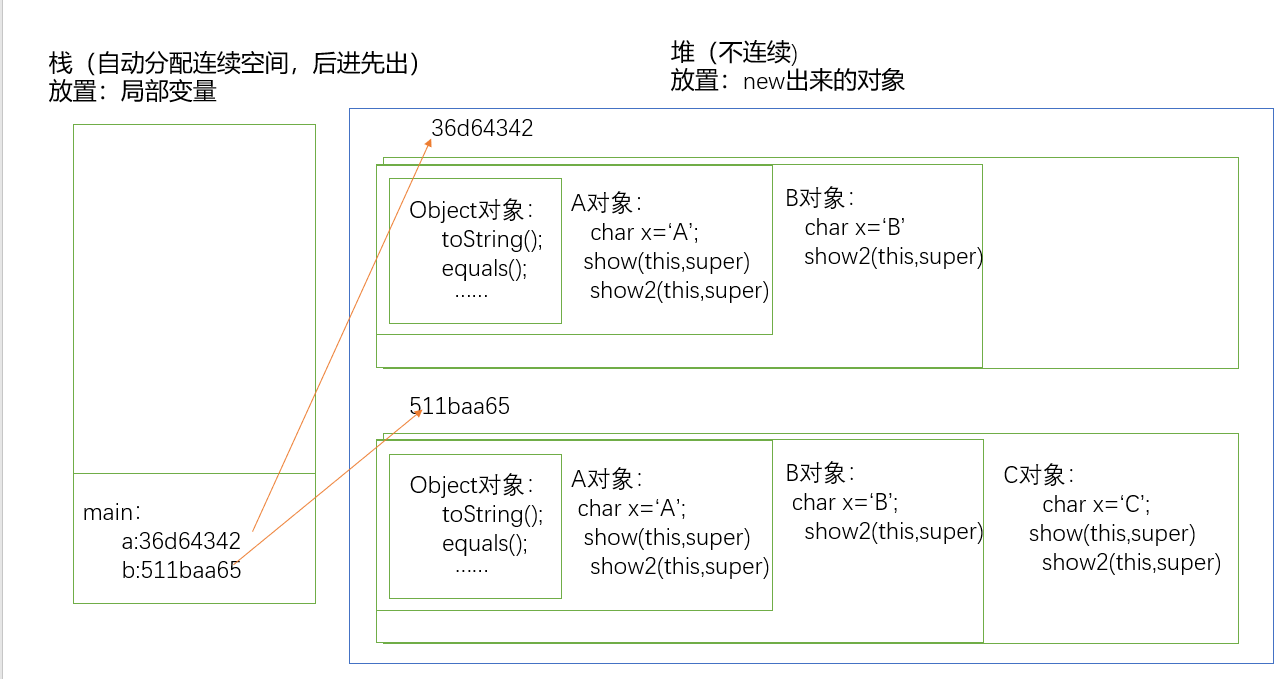
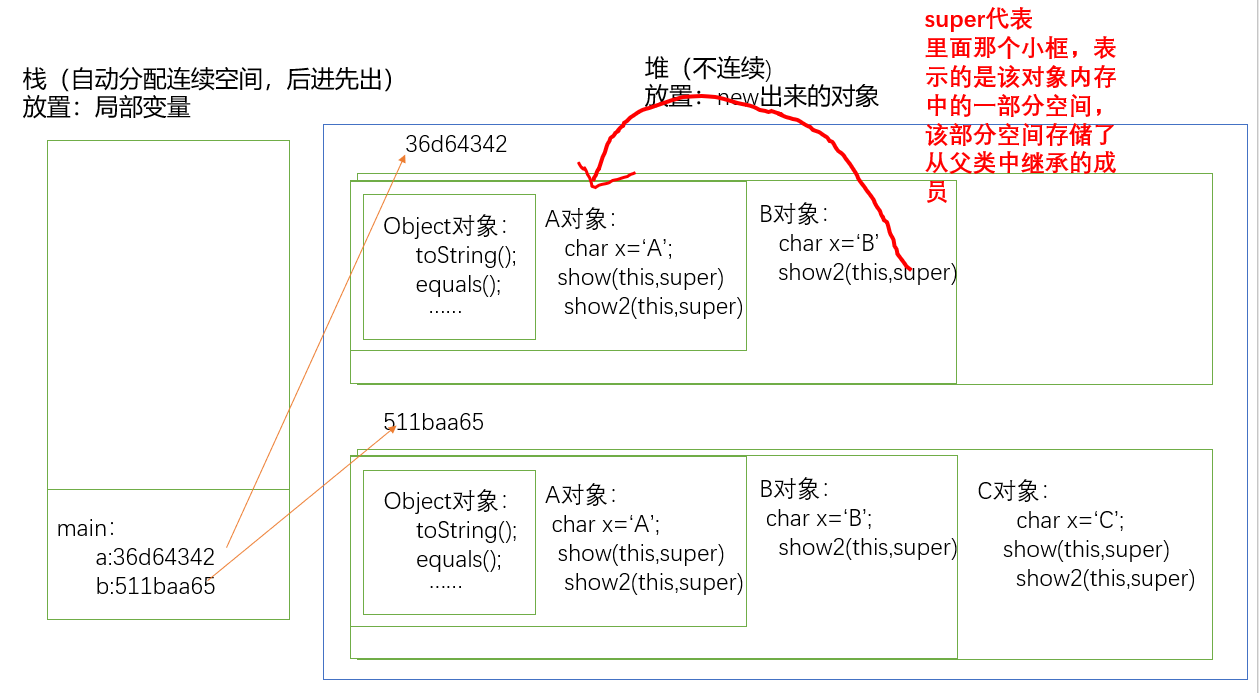
Site updated: 2019-04-04 23:29:35

Changed region(s): [[0.0, 0.0, 1.0, 1.0], [0.031, 0.6804, 0.062, 0.7113]]

diff --git a/2019/04/04/面向对象三大特性3——多态/index.html b/2019/04/04/面向对象三大特性3——多态/index.html
@@ -113,7 +113,7 @@
 <meta property="og:locale" content="zh-CN">
 <meta property="og:image" content="https://wjj711.github.io/2019/04/04/面向对象三大特性3——多态/ABC内存分析.png">
 <meta property="og:image" content="https://wjj711.github.io/2019/04/04/面向对象三大特性3——多态/servlet内存分析.png">
-<meta property="og:updated_time" content="2019-04-04T12:44:28.611Z">
+<meta property="og:updated_time" content="2019-04-04T15:01:50.432Z">
 <meta name="twitter:card" content="summary">
 <meta name="twitter:title" content="面向对象三大特性3——多态">
 <meta name="twitter:description" content="多态(polymorphism)多态指的是同一个方法调用，由于对象不同可能会有不同的行为。现实生活中，同一个方法，具体实现会完全不同。 比如：同样是调用人“吃饭”的方法，中国人执行就是用筷子吃饭，英国人执行就是用刀叉吃饭，印度人执行用手吃饭。 多态的要点： 多态是方法的多态，不是属性的多态(多态与属性无关)。 多态的存在要有3个必要条件：继承（实现），方法重写，父类引用指向子类对象。 父类引用指向">
@@ -403,7 +403,7 @@
                 
               
 
-              <time title="创建时间：2019-04-04 15:59:11 / 修改时间：20:44:28" itemprop="dateCreated datePublished" datetime="2019-04-04T15:59:11+08:00">2019-04-04</time>
+              <time title="创建时间：2019-04-04 15:59:11 / 修改时间：23:01:50" itemprop="dateCreated datePublished" datetime="2019-04-04T15:59:11+08:00">2019-04-04</time>
             
 
             
@@ -474,7 +474,7 @@
                 
                   <span class="post-meta-item-text">本文字数：</span>
                 
-                <span title="本文字数">3.2k</span>
+                <span title="本文字数">3.5k</span>
               
 
               
@@ -510,7 +510,7 @@
       
         <h1 id="多态-polymorphism"><a href="#多态-polymorphism" class="headerlink" title="多态(polymorphism)"></a><strong>多态(polymorphism)</strong></h1><p>多态指的是同一个方法调用，由于对象不同可能会有不同的行为。现实生活中，同一个方法，具体实现会完全不同。 比如：同样是调用人“吃饭”的方法，中国人执行就是用筷子吃饭，英国人执行就是用刀叉吃饭，印度人执行用手吃饭。</p>
 <h1 id="多态的要点："><a href="#多态的要点：" class="headerlink" title="多态的要点："></a>多态的要点：</h1><ol>
-<li>多态是方法的多态，不是属性的多态(多态与属性无关)。</li>
+<li><strong>多态是方法的多态，不是属性的多态(多态与属性无关)。</strong></li>
 <li>多态的存在要有3个必要条件：<strong><em>继承（实现），方法重写，父类引用指向子类对象。</em></strong></li>
 <li>父类引用指向子类对象后，用该父类引用调用子类重写的方法，此时多态就出现了。</li>
 </ol>
@@ -523,7 +523,7 @@
 <p>    有一天，又有人请孔子爹去教农耕，恰巧孔子爹不在。给的报酬很高，孔子就心动了。就打算打扮成他爹的样子去，穿上爹的衣服，带上爹的帽子，粘上小胡子就去了。<code>Father f=new Son();</code>f.name f.age 其实是爹的属性，因为别人看到的是孔子爹的属性（样貌）。别人请孔子教农耕，孔子就露馅了<code>f.teach(）</code>教的是论语。</p>
 <figure class="highlight java"><table><tr><td class="gutter"><pre><span class="line">1</span><br><span class="line">2</span><br><span class="line">3</span><br><span class="line">4</span><br><span class="line">5</span><br><span class="line">6</span><br><span class="line">7</span><br><span class="line">8</span><br><span class="line">9</span><br><span class="line">10</span><br><span class="line">11</span><br><span class="line">12</span><br><span class="line">13</span><br><span class="line">14</span><br><span class="line">15</span><br><span class="line">16</span><br><span class="line">17</span><br><span class="line">18</span><br><span class="line">19</span><br><span class="line">20</span><br><span class="line">21</span><br><span class="line">22</span><br><span class="line">23</span><br><span class="line">24</span><br><span class="line">25</span><br><span class="line">26</span><br><span class="line">27</span><br><span class="line">28</span><br><span class="line">29</span><br></pre></td><td class="code"><pre><span class="line"><span class="class"><span class="keyword">class</span> <span class="title">KongDie</span></span>&#123;</span><br><span class="line">	<span class="keyword">int</span> age=<span class="number">70</span>;</span><br><span class="line">	String name=<span class="string">"老爹"</span>;</span><br><span class="line">	<span class="function"><span class="keyword">public</span> <span class="keyword">static</span> <span class="keyword">void</span> <span class="title">sleep</span><span class="params">()</span> </span>&#123;</span><br><span class="line">		System.out.println(<span class="string">"孔爹睡觉"</span>);</span><br><span class="line">	&#125;</span><br><span class="line">	<span class="function"><span class="keyword">public</span> <span class="keyword">void</span> <span class="title">teach</span><span class="params">()</span> </span>&#123;</span><br><span class="line">		System.out.println(<span class="string">"孔爹教农耕"</span>);</span><br><span class="line">	&#125;</span><br><span class="line">&#125;</span><br><span class="line"><span class="class"><span class="keyword">class</span> <span class="title">Kong</span> <span class="keyword">extends</span> <span class="title">KongDie</span></span>&#123;</span><br><span class="line">	<span class="keyword">int</span> age=<span class="number">30</span>;</span><br><span class="line">	String name=<span class="string">"小孔"</span>;</span><br><span class="line">	<span class="function"><span class="keyword">public</span> <span class="keyword">static</span> <span class="keyword">void</span> <span class="title">sleep</span><span class="params">()</span> </span>&#123;</span><br><span class="line">		System.out.println(<span class="string">"小孔睡觉"</span>);</span><br><span class="line">	&#125;</span><br><span class="line">	<span class="function"><span class="keyword">public</span> <span class="keyword">void</span> <span class="title">teach</span><span class="params">()</span> </span>&#123;</span><br><span class="line">		System.out.println(<span class="string">"小孔教论语"</span>);</span><br><span class="line">	&#125;</span><br><span class="line">&#125;</span><br><span class="line"><span class="keyword">public</span> <span class="class"><span class="keyword">class</span> <span class="title">TestDemo</span></span>&#123;</span><br><span class="line">	<span class="function"><span class="keyword">public</span> <span class="keyword">static</span> <span class="keyword">void</span> <span class="title">main</span><span class="params">(String[] args)</span> </span>&#123;</span><br><span class="line">		KongDie f=<span class="keyword">new</span> Kong();</span><br><span class="line">		System.out.println(<span class="string">"年龄:"</span>+f.age);</span><br><span class="line">		System.out.println(<span class="string">"姓名:"</span>+f.name);</span><br><span class="line">		f.sleep();</span><br><span class="line">		f.teach();</span><br><span class="line">	&#125;</span><br><span class="line">&#125;</span><br></pre></td></tr></table></figure>
 <p>运行结果：</p>
-<figure class="highlight java"><table><tr><td class="gutter"><pre><span class="line">1</span><br><span class="line">2</span><br><span class="line">3</span><br><span class="line">4</span><br></pre></td><td class="code"><pre><span class="line">年龄:<span class="number">70</span> <span class="comment">//成员变量，运行看左边</span></span><br><span class="line">姓名:老爹<span class="comment">//成员变量，运行看左边</span></span><br><span class="line">孔爹睡觉<span class="comment">//静态方法，运行看左边</span></span><br><span class="line">小孔教论语<span class="comment">//成员方法,运行看右边</span></span><br></pre></td></tr></table></figure>
+<figure class="highlight java"><table><tr><td class="gutter"><pre><span class="line">1</span><br><span class="line">2</span><br><span class="line">3</span><br><span class="line">4</span><br></pre></td><td class="code"><pre><span class="line">年龄:<span class="number">70</span> <span class="comment">//成员变量，运行看左边</span></span><br><span class="line">姓名:老爹<span class="comment">//成员变量，运行看左边</span></span><br><span class="line">孔爹睡觉<span class="comment">//静态方法，运行看左边</span></span><br><span class="line">小孔教论语<span class="comment">//成员方法,运行看右边，多态！</span></span><br></pre></td></tr></table></figure>
 <h1 id="多态的好处"><a href="#多态的好处" class="headerlink" title="多态的好处"></a>多态的好处</h1><ol>
 <li>提高了程序的维护性（由继承保证）</li>
 <li>提高了程序的扩展性（由多态保证）</li>
@@ -539,9 +539,9 @@
 <figure class="highlight java"><table><tr><td class="gutter"><pre><span class="line">1</span><br></pre></td><td class="code"><pre><span class="line">Father father=<span class="keyword">new</span> Son();</span><br></pre></td></tr></table></figure>
 <h1 id="向下转型"><a href="#向下转型" class="headerlink" title="向下转型"></a>向下转型</h1><p>        向上转型后的父类引用变量只能调用它编译类型的方法，不能调用它运行时类型的方法。这时，我们就需要进行类型的强制转换，我们称之为向下转型!</p>
 <figure class="highlight java"><table><tr><td class="gutter"><pre><span class="line">1</span><br></pre></td><td class="code"><pre><span class="line">Son son=(Son)father;<span class="comment">//父类引用变量father实际上指向的是子类对象</span></span><br></pre></td></tr></table></figure>
-<h1 id="面试题"><a href="#面试题" class="headerlink" title="面试题"></a>面试题</h1><figure class="highlight java"><table><tr><td class="gutter"><pre><span class="line">1</span><br><span class="line">2</span><br><span class="line">3</span><br><span class="line">4</span><br><span class="line">5</span><br><span class="line">6</span><br><span class="line">7</span><br><span class="line">8</span><br><span class="line">9</span><br><span class="line">10</span><br><span class="line">11</span><br><span class="line">12</span><br><span class="line">13</span><br><span class="line">14</span><br><span class="line">15</span><br><span class="line">16</span><br><span class="line">17</span><br><span class="line">18</span><br><span class="line">19</span><br><span class="line">20</span><br><span class="line">21</span><br><span class="line">22</span><br><span class="line">23</span><br><span class="line">24</span><br><span class="line">25</span><br><span class="line">26</span><br><span class="line">27</span><br><span class="line">28</span><br><span class="line">29</span><br><span class="line">30</span><br><span class="line">31</span><br><span class="line">32</span><br><span class="line">33</span><br></pre></td><td class="code"><pre><span class="line"><span class="class"><span class="keyword">class</span> <span class="title">A</span></span>&#123;</span><br><span class="line">	<span class="function"><span class="keyword">public</span> <span class="keyword">void</span> <span class="title">show</span><span class="params">()</span></span>&#123;</span><br><span class="line">		System.out.println(<span class="string">"父类A中的this地址为："</span>+<span class="keyword">this</span>);</span><br><span class="line">		<span class="keyword">this</span>.show2();</span><br><span class="line">	&#125;</span><br><span class="line">	<span class="function"><span class="keyword">public</span> <span class="keyword">void</span> <span class="title">show2</span><span class="params">()</span></span>&#123;</span><br><span class="line">		System.out.println(<span class="string">"我"</span>);</span><br><span class="line">	&#125;</span><br><span class="line">&#125;</span><br><span class="line"><span class="class"><span class="keyword">class</span> <span class="title">B</span> <span class="keyword">extends</span> <span class="title">A</span> </span>&#123;</span><br><span class="line">	<span class="function"><span class="keyword">public</span> <span class="keyword">void</span> <span class="title">show2</span><span class="params">()</span></span>&#123;</span><br><span class="line">		System.out.println(<span class="string">"爱"</span>);</span><br><span class="line">	&#125;</span><br><span class="line">&#125;</span><br><span class="line"><span class="class"><span class="keyword">class</span> <span class="title">C</span> <span class="keyword">extends</span> <span class="title">B</span> </span>&#123;</span><br><span class="line">	<span class="function"><span class="keyword">public</span> <span class="keyword">void</span> <span class="title">show</span><span class="params">()</span></span>&#123;</span><br><span class="line">		System.out.println(<span class="string">"子类C的super的地址为："</span>+ <span class="keyword">super</span>.toString());</span><br><span class="line">		<span class="keyword">super</span>.show();</span><br><span class="line">	&#125;</span><br><span class="line">	<span class="function"><span class="keyword">public</span> <span class="keyword">void</span> <span class="title">show2</span><span class="params">()</span></span>&#123;</span><br><span class="line">		System.out.println(<span class="string">"你"</span>);</span><br><span class="line">	&#125;</span><br><span class="line">&#125;</span><br><span class="line"><span class="keyword">public</span> <span class="class"><span class="keyword">class</span> <span class="title">TestDemo</span> </span>&#123;</span><br><span class="line">	<span class="function"><span class="keyword">public</span> <span class="keyword">static</span> <span class="keyword">void</span> <span class="title">main</span><span class="params">(String[] args)</span> </span>&#123;</span><br><span class="line">		A a = <span class="keyword">new</span> B();</span><br><span class="line">		System.out.println(<span class="string">"a的地址是："</span>+a);</span><br><span class="line">		a.show();</span><br><span class="line">		B b = <span class="keyword">new</span> C();</span><br><span class="line">		System.out.println(<span class="string">"b的地址是："</span>+b);</span><br><span class="line">		b.show();</span><br><span class="line">	&#125;</span><br><span class="line">&#125;</span><br></pre></td></tr></table></figure>
+<h1 id="面试题"><a href="#面试题" class="headerlink" title="面试题"></a>面试题</h1><figure class="highlight java"><table><tr><td class="gutter"><pre><span class="line">1</span><br><span class="line">2</span><br><span class="line">3</span><br><span class="line">4</span><br><span class="line">5</span><br><span class="line">6</span><br><span class="line">7</span><br><span class="line">8</span><br><span class="line">9</span><br><span class="line">10</span><br><span class="line">11</span><br><span class="line">12</span><br><span class="line">13</span><br><span class="line">14</span><br><span class="line">15</span><br><span class="line">16</span><br><span class="line">17</span><br><span class="line">18</span><br><span class="line">19</span><br><span class="line">20</span><br><span class="line">21</span><br><span class="line">22</span><br><span class="line">23</span><br><span class="line">24</span><br><span class="line">25</span><br><span class="line">26</span><br><span class="line">27</span><br><span class="line">28</span><br><span class="line">29</span><br><span class="line">30</span><br><span class="line">31</span><br><span class="line">32</span><br><span class="line">33</span><br><span class="line">34</span><br><span class="line">35</span><br><span class="line">36</span><br><span class="line">37</span><br><span class="line">38</span><br><span class="line">39</span><br></pre></td><td class="code"><pre><span class="line"><span class="class"><span class="keyword">class</span> <span class="title">A</span></span>&#123;</span><br><span class="line">	<span class="keyword">char</span> x=<span class="string">'A'</span>;</span><br><span class="line">	<span class="function"><span class="keyword">public</span> <span class="keyword">void</span> <span class="title">show</span><span class="params">()</span></span>&#123;</span><br><span class="line">		System.out.println(<span class="string">"父类A中的this地址为："</span>+<span class="keyword">this</span>);</span><br><span class="line">		<span class="keyword">this</span>.show2();</span><br><span class="line">	&#125;</span><br><span class="line">	<span class="function"><span class="keyword">public</span> <span class="keyword">void</span> <span class="title">show2</span><span class="params">()</span></span>&#123;</span><br><span class="line">		System.out.println(<span class="string">"我"</span>);</span><br><span class="line">	&#125;</span><br><span class="line">&#125;</span><br><span class="line"><span class="class"><span class="keyword">class</span> <span class="title">B</span> <span class="keyword">extends</span> <span class="title">A</span> </span>&#123;</span><br><span class="line">	<span class="keyword">char</span> x=<span class="string">'B'</span>;</span><br><span class="line">	<span class="function"><span class="keyword">public</span> <span class="keyword">void</span> <span class="title">show2</span><span class="params">()</span></span>&#123;</span><br><span class="line">		System.out.println(<span class="string">"爱"</span>);</span><br><span class="line">	&#125;</span><br><span class="line">&#125;</span><br><span class="line"><span class="class"><span class="keyword">class</span> <span class="title">C</span> <span class="keyword">extends</span> <span class="title">B</span> </span>&#123;</span><br><span class="line">	<span class="keyword">char</span> x=<span class="string">'C'</span>;</span><br><span class="line">	<span class="function"><span class="keyword">public</span> <span class="keyword">void</span> <span class="title">show</span><span class="params">()</span></span>&#123;</span><br><span class="line">		System.out.println(<span class="string">"子类C的super的地址为："</span>+ <span class="keyword">super</span>.toString());</span><br><span class="line">		<span class="keyword">super</span>.show();</span><br><span class="line">	&#125;</span><br><span class="line">	<span class="function"><span class="keyword">public</span> <span class="keyword">void</span> <span class="title">show2</span><span class="params">()</span></span>&#123;</span><br><span class="line">		System.out.println(<span class="string">"你"</span>);</span><br><span class="line">	&#125;</span><br><span class="line">&#125;</span><br><span class="line"><span class="keyword">public</span> <span class="class"><span class="keyword">class</span> <span class="title">TestDemo</span> </span>&#123;</span><br><span class="line">	<span class="function"><span class="keyword">public</span> <span class="keyword">static</span> <span class="keyword">void</span> <span class="title">main</span><span class="params">(String[] args)</span> </span>&#123;</span><br><span class="line">		A a = <span class="keyword">new</span> B();</span><br><span class="line">		System.out.println(<span class="string">"a的地址是："</span>+a);</span><br><span class="line">		System.out.println(<span class="string">"a.x= "</span>+a.x);</span><br><span class="line">		a.show();</span><br><span class="line">		System.out.println(<span class="string">"------------------------"</span>);</span><br><span class="line">		B b = <span class="keyword">new</span> C();</span><br><span class="line">		System.out.println(<span class="string">"b的地址是："</span>+b);</span><br><span class="line">		System.out.println(<span class="string">"b.x= "</span>+b.x);</span><br><span class="line">		b.show();</span><br><span class="line">	&#125;</span><br><span class="line">&#125;</span><br></pre></td></tr></table></figure>
 <p>输出结果：</p>
-<figure class="highlight java"><table><tr><td class="gutter"><pre><span class="line">1</span><br><span class="line">2</span><br><span class="line">3</span><br><span class="line">4</span><br><span class="line">5</span><br><span class="line">6</span><br><span class="line">7</span><br></pre></td><td class="code"><pre><span class="line">a的地址是：classlib.B@<span class="number">36</span>d64342</span><br><span class="line">父类A中的<span class="keyword">this</span>地址为：classlib.B@<span class="number">36</span>d64342</span><br><span class="line">爱</span><br><span class="line">b的地址是：classlib.C@<span class="number">511</span>baa65</span><br><span class="line">子类C的<span class="keyword">super</span>的地址为：classlib.C@<span class="number">511</span>baa65</span><br><span class="line">父类A中的<span class="keyword">this</span>地址为：classlib.C@<span class="number">511</span>baa65</span><br><span class="line">你</span><br></pre></td></tr></table></figure>
+<figure class="highlight java"><table><tr><td class="gutter"><pre><span class="line">1</span><br><span class="line">2</span><br><span class="line">3</span><br><span class="line">4</span><br><span class="line">5</span><br><span class="line">6</span><br><span class="line">7</span><br><span class="line">8</span><br><span class="line">9</span><br><span class="line">10</span><br></pre></td><td class="code"><pre><span class="line">a的地址是：classlib.B@<span class="number">36</span>d64342</span><br><span class="line">a.x= A<span class="comment">//成员变量没有多态，编译运行都看左边</span></span><br><span class="line">父类A中的<span class="keyword">this</span>地址为：classlib.B@<span class="number">36</span>d64342</span><br><span class="line">爱</span><br><span class="line">------------------------</span><br><span class="line">b的地址是：classlib.C@<span class="number">511</span>baa65</span><br><span class="line">b.x= B<span class="comment">//成员变量没有多态，编译运行都看左边</span></span><br><span class="line">子类C的<span class="keyword">super</span>的地址为：classlib.C@<span class="number">511</span>baa65<span class="comment">//super表示的是该对象内存中的一部分地址，该部分存储了从父类中继承的成员</span></span><br><span class="line">父类A中的<span class="keyword">this</span>地址为：classlib.C@<span class="number">511</span>baa65</span><br><span class="line">你</span><br></pre></td></tr></table></figure>
 <h2 id="多态的内存分析"><a href="#多态的内存分析" class="headerlink" title="多态的内存分析"></a>多态的内存分析</h2><img src="/2019/04/04/面向对象三大特性3——多态/ABC内存分析.png">
 <h1 id="模拟Servlet并内存分析"><a href="#模拟Servlet并内存分析" class="headerlink" title="模拟Servlet并内存分析"></a>模拟Servlet并内存分析</h1><figure class="highlight java"><table><tr><td class="gutter"><pre><span class="line">1</span><br><span class="line">2</span><br><span class="line">3</span><br><span class="line">4</span><br><span class="line">5</span><br><span class="line">6</span><br><span class="line">7</span><br><span class="line">8</span><br><span class="line">9</span><br><span class="line">10</span><br><span class="line">11</span><br><span class="line">12</span><br><span class="line">13</span><br><span class="line">14</span><br><span class="line">15</span><br><span class="line">16</span><br><span class="line">17</span><br><span class="line">18</span><br><span class="line">19</span><br><span class="line">20</span><br><span class="line">21</span><br><span class="line">22</span><br><span class="line">23</span><br></pre></td><td class="code"><pre><span class="line"><span class="keyword">public</span> <span class="class"><span class="keyword">class</span> <span class="title">TestDemo</span></span>&#123;</span><br><span class="line">	<span class="function"><span class="keyword">public</span> <span class="keyword">static</span> <span class="keyword">void</span> <span class="title">main</span><span class="params">(String[] args)</span> </span>&#123;</span><br><span class="line">		HttpServlet s=<span class="keyword">new</span> MyServlet();</span><br><span class="line">		s.service();</span><br><span class="line">		System.out.println(<span class="string">"对象s的内存地址"</span>+s);</span><br><span class="line">	&#125;</span><br><span class="line">&#125;</span><br><span class="line"><span class="class"><span class="keyword">class</span> <span class="title">HttpServlet</span></span>&#123;</span><br><span class="line">	<span class="function"><span class="keyword">public</span> <span class="keyword">void</span> <span class="title">service</span><span class="params">()</span> </span>&#123;</span><br><span class="line">		System.out.println(<span class="string">"HttpServlet.service()"</span>);</span><br><span class="line">		System.out.println(<span class="string">"调用doGet()时的内存地址"</span>+<span class="keyword">this</span>);</span><br><span class="line">		<span class="keyword">this</span>.doGet();</span><br><span class="line">	&#125;</span><br><span class="line">	<span class="function"><span class="keyword">public</span> <span class="keyword">void</span> <span class="title">doGet</span><span class="params">()</span> </span>&#123;</span><br><span class="line">		System.out.println(<span class="string">"HttpServlet.doGet()"</span>);</span><br><span class="line">	&#125;</span><br><span class="line">&#125;</span><br><span class="line"><span class="class"><span class="keyword">class</span> <span class="title">MyServlet</span> <span class="keyword">extends</span> <span class="title">HttpServlet</span> </span>&#123;</span><br><span class="line">	<span class="comment">//重写doGet()方法，不重写service()方法</span></span><br><span class="line">	<span class="function"><span class="keyword">public</span> <span class="keyword">void</span> <span class="title">doGet</span><span class="params">()</span> </span>&#123;</span><br><span class="line">		System.out.println(<span class="string">"MyServlet.doGet()"</span>);</span><br><span class="line">	&#125;</span><br><span class="line">&#125;</span><br></pre></td></tr></table></figure>
 <figure class="highlight java"><table><tr><td class="gutter"><pre><span class="line">1</span><br><span class="line">2</span><br><span class="line">3</span><br><span class="line">4</span><br></pre></td><td class="code"><pre><span class="line">HttpServlet.service()</span><br><span class="line">调用doGet()时的内存地址classlib.MyServlet@<span class="number">36</span>d64342</span><br><span class="line">MyServlet.doGet()</span><br><span class="line">对象s的内存地址classlib.MyServlet@<span class="number">36</span>d64342</span><br></pre></td></tr></table></figure>
@@ -853,7 +853,7 @@
       <i class="fa fa-area-chart"></i>
     </span>
     
-    <span title="站点总字数">32k</span>
+    <span title="站点总字数">33k</span>
   
 
   
@@ -862,7 +862,7 @@
       <i class="fa fa-coffee"></i>
     </span>
     
-    <span title="站点阅读时长">29 分钟</span>
+    <span title="站点阅读时长">30 分钟</span>
   
 </div>
 

diff --git a/2019/04/04/super关键字/index.html b/2019/04/04/super关键字/index.html
@@ -103,18 +103,20 @@
 
 
 
-  <meta name="description" content="this:     a：代表当前对象（哪个对象调用这个方法，它就代表哪个对象） b：代表该对象的一个空间标识（可以调用在本类中定义的成员） super：      a: 代表该对象的空间标识，里面存的是父类继承的成员（可以调用在父类中定义的成员） 静态方法中不能使用super关键字 123456789101112131415161718public class TestDemo&amp;#123;	p">
+  <meta name="description" content="this:        a. 代表当前对象（哪个对象调用这个方法，它就代表哪个对象）        b.代表该对象的一个空间标识（可以调用在本类中定义的成员） super：      a: super表示的是该对象内存中的一部分空间，该部分空间存储了从父类中继承的成员，（可以调用在父类中定义的成员） 如图所示，super代表的是里面那个小框，表示的是该对象内存中的一部分空间，该部分空间存储了从">
 <meta name="keywords" content="Java,JavaSE">
 <meta property="og:type" content="article">
 <meta property="og:title" content="super关键字&amp;&amp;继承树">
 <meta property="og:url" content="https://WJJ711.github.io/2019/04/04/super关键字/index.html">
 <meta property="og:site_name" content="wjjのhomepage">
-<meta property="og:description" content="this:     a：代表当前对象（哪个对象调用这个方法，它就代表哪个对象） b：代表该对象的一个空间标识（可以调用在本类中定义的成员） super：      a: 代表该对象的空间标识，里面存的是父类继承的成员（可以调用在父类中定义的成员） 静态方法中不能使用super关键字 123456789101112131415161718public class TestDemo&amp;#123;	p">
+<meta property="og:description" content="this:        a. 代表当前对象（哪个对象调用这个方法，它就代表哪个对象）        b.代表该对象的一个空间标识（可以调用在本类中定义的成员） super：      a: super表示的是该对象内存中的一部分空间，该部分空间存储了从父类中继承的成员，（可以调用在父类中定义的成员） 如图所示，super代表的是里面那个小框，表示的是该对象内存中的一部分空间，该部分空间存储了从">
 <meta property="og:locale" content="zh-CN">
-<meta property="og:updated_time" content="2019-04-04T13:50:54.891Z">
+<meta property="og:image" content="https://wjj711.github.io/2019/04/04/super关键字/super代表的内存空间标识.png">
+<meta property="og:updated_time" content="2019-04-04T15:01:49.184Z">
 <meta name="twitter:card" content="summary">
 <meta name="twitter:title" content="super关键字&amp;&amp;继承树">
-<meta name="twitter:description" content="this:     a：代表当前对象（哪个对象调用这个方法，它就代表哪个对象） b：代表该对象的一个空间标识（可以调用在本类中定义的成员） super：      a: 代表该对象的空间标识，里面存的是父类继承的成员（可以调用在父类中定义的成员） 静态方法中不能使用super关键字 123456789101112131415161718public class TestDemo&amp;#123;	p">
+<meta name="twitter:description" content="this:        a. 代表当前对象（哪个对象调用这个方法，它就代表哪个对象）        b.代表该对象的一个空间标识（可以调用在本类中定义的成员） super：      a: super表示的是该对象内存中的一部分空间，该部分空间存储了从父类中继承的成员，（可以调用在父类中定义的成员） 如图所示，super代表的是里面那个小框，表示的是该对象内存中的一部分空间，该部分空间存储了从">
+<meta name="twitter:image" content="https://wjj711.github.io/2019/04/04/super关键字/super代表的内存空间标识.png">
 
 
 
@@ -400,7 +402,7 @@
                 
               
 
-              <time title="创建时间：2019-04-04 10:22:21 / 修改时间：21:50:54" itemprop="dateCreated datePublished" datetime="2019-04-04T10:22:21+08:00">2019-04-04</time>
+              <time title="创建时间：2019-04-04 10:22:21 / 修改时间：23:01:49" itemprop="dateCreated datePublished" datetime="2019-04-04T10:22:21+08:00">2019-04-04</time>
             
 
             
@@ -505,17 +507,17 @@
       
 
       
-        <p>this:</p>
-<p>    a：代表当前对象（哪个对象调用这个方法，它就代表哪个对象）</p>
-<pre><code>b：代表该对象的一个空间标识（可以调用在本类中定义的成员）
-</code></pre><p>super： </p>
-<p>    a: 代表该对象的空间标识，里面存的是父类继承的成员（可以调用在父类中定义的成员）</p>
+        <p>this:<br>        a. 代表当前对象（哪个对象调用这个方法，它就代表哪个对象）<br>        b.代表该对象的一个空间标识（可以调用在本类中定义的成员）</p>
+<p>super： </p>
+<p>    a: super表示的是该对象内存中的一部分空间，该部分空间存储了从父类中继承的成员，（可以调用在父类中定义的成员）</p>
+<p>如图所示，super代表的是里面那个小框，表示的是该对象内存中的一部分空间，该部分空间存储了从父类中继承的成员</p>
+<img src="/2019/04/04/super关键字/super代表的内存空间标识.png">
 <p><strong><em>静态方法中不能使用super关键字</em></strong></p>
 <figure class="highlight java"><table><tr><td class="gutter"><pre><span class="line">1</span><br><span class="line">2</span><br><span class="line">3</span><br><span class="line">4</span><br><span class="line">5</span><br><span class="line">6</span><br><span class="line">7</span><br><span class="line">8</span><br><span class="line">9</span><br><span class="line">10</span><br><span class="line">11</span><br><span class="line">12</span><br><span class="line">13</span><br><span class="line">14</span><br><span class="line">15</span><br><span class="line">16</span><br><span class="line">17</span><br><span class="line">18</span><br></pre></td><td class="code"><pre><span class="line"><span class="keyword">public</span> <span class="class"><span class="keyword">class</span> <span class="title">TestDemo</span></span>&#123;</span><br><span class="line">	<span class="function"><span class="keyword">public</span> <span class="keyword">static</span> <span class="keyword">void</span> <span class="title">main</span><span class="params">(String[] args)</span> </span>&#123;</span><br><span class="line">		Son1 son=<span class="keyword">new</span> Son1();</span><br><span class="line">		son.method(<span class="number">0</span>);</span><br><span class="line">	&#125;</span><br><span class="line">&#125;</span><br><span class="line"><span class="class"><span class="keyword">class</span> <span class="title">Father1</span></span>&#123;</span><br><span class="line">	<span class="keyword">int</span> n=<span class="number">1024</span>;</span><br><span class="line">&#125;</span><br><span class="line"><span class="class"><span class="keyword">class</span> <span class="title">Son1</span> <span class="keyword">extends</span> <span class="title">Father1</span></span>&#123;</span><br><span class="line">	<span class="keyword">int</span> n=<span class="number">2048</span>;</span><br><span class="line">	<span class="function"><span class="keyword">public</span> <span class="keyword">void</span> <span class="title">method</span><span class="params">(<span class="keyword">int</span> n)</span> </span>&#123;</span><br><span class="line">		System.out.println(<span class="string">"n="</span>+n);</span><br><span class="line">		System.out.println(<span class="string">"this.n="</span>+<span class="keyword">this</span>.n);</span><br><span class="line">		System.out.println(<span class="string">"super.n="</span>+<span class="keyword">super</span>.n);						System.out.println(<span class="string">"子类对象:"</span>+<span class="keyword">this</span>);</span><br><span class="line">		<span class="comment">//System.out.println(super);编译错误</span></span><br><span class="line">	&#125;</span><br><span class="line">&#125;</span><br></pre></td></tr></table></figure>
 <p>输出结果：</p>
 <figure class="highlight java"><table><tr><td class="gutter"><pre><span class="line">1</span><br><span class="line">2</span><br><span class="line">3</span><br><span class="line">4</span><br></pre></td><td class="code"><pre><span class="line">n=<span class="number">0</span><span class="comment">//方法中的局部变量</span></span><br><span class="line"><span class="keyword">this</span>.n=<span class="number">2048</span><span class="comment">//this代表子类，子类中的成员变量</span></span><br><span class="line"><span class="keyword">super</span>.n=<span class="number">1024</span><span class="comment">//上面代码中父类对象没有创建，只new了一个子类对象，所以super代表该对象的空间标识，里面存的是父类继承的成员</span></span><br><span class="line">子类对象:classlib.Son1@<span class="number">36</span>d64342<span class="comment">//相当于this.toString()</span></span><br></pre></td></tr></table></figure>
 <h1 id="总结"><a href="#总结" class="headerlink" title="总结"></a>总结</h1><ol>
-<li><p>super是直接父类对象的引用。可以通过super来访问父类中被子类覆盖的非static方法或非static属性。</p>
+<li><p>super是直接对父类对象的引用。可以通过super来访问父类中被子类覆盖的非static方法或非static属性。</p>
 </li>
 <li><p>使用super调用普通方法，语句没有位置限制，可以在子类中随便调用。</p>
 </li>
@@ -891,7 +893,7 @@
       <i class="fa fa-area-chart"></i>
     </span>
     
-    <span title="站点总字数">32k</span>
+    <span title="站点总字数">33k</span>
   
 
   
@@ -900,7 +902,7 @@
       <i class="fa fa-coffee"></i>
     </span>
     
-    <span title="站点阅读时长">29 分钟</span>
+    <span title="站点阅读时长">30 分钟</span>
   
 </div>
 

diff --git a/index.html b/index.html
@@ -401,7 +401,7 @@
                 
               
 
-              <time title="创建时间：2019-04-04 15:59:11 / 修改时间：20:44:28" itemprop="dateCreated datePublished" datetime="2019-04-04T15:59:11+08:00">2019-04-04</time>
+              <time title="创建时间：2019-04-04 15:59:11 / 修改时间：23:01:50" itemprop="dateCreated datePublished" datetime="2019-04-04T15:59:11+08:00">2019-04-04</time>
             
 
             
@@ -465,7 +465,7 @@
                 
                   <span class="post-meta-item-text">本文字数：</span>
                 
-                <span title="本文字数">3.2k</span>
+                <span title="本文字数">3.5k</span>
               
 
               
@@ -826,7 +826,7 @@ fina
                 
               
 
-              <time title="创建时间：2019-04-04 10:22:21 / 修改时间：21:50:54" itemprop="dateCreated datePublished" datetime="2019-04-04T10:22:21+08:00">2019-04-04</time>
+              <time title="创建时间：2019-04-04 10:22:21 / 修改时间：23:01:49" itemprop="dateCreated datePublished" datetime="2019-04-04T10:22:21+08:00">2019-04-04</time>
             
 
             
@@ -927,9 +927,7 @@ fina
         
           
             <p>
-              this:
-    a：代表当前对象（哪个对象调用这个方法，它就代表哪个对象）
-b：代表该对象的一
+              this:        a. 代表当前对象（哪个对象调用这个方法，它就代表哪个对象）       
               ...
             </p>
           <!--noindex-->
@@ -2661,7 +2659,7 @@ static修饰的成员变量和方法，从属于类。
       <i class="fa fa-area-chart"></i>
     </span>
     
-    <span title="站点总字数">32k</span>
+    <span title="站点总字数">33k</span>
   
 
   
@@ -2670,7 +2668,7 @@ static修饰的成员变量和方法，从属于类。
       <i class="fa fa-coffee"></i>
     </span>
     
-    <span title="站点阅读时长">29 分钟</span>
+    <span title="站点阅读时长">30 分钟</span>
   
 </div>
 

diff --git a/page/2/index.html b/page/2/index.html
@@ -2288,7 +2288,7 @@
       <i class="fa fa-area-chart"></i>
     </span>
     
-    <span title="站点总字数">32k</span>
+    <span title="站点总字数">33k</span>
   
 
   
@@ -2297,7 +2297,7 @@
       <i class="fa fa-coffee"></i>
     </span>
     
-    <span title="站点阅读时长">29 分钟</span>
+    <span title="站点阅读时长">30 分钟</span>
   
 </div>
 

diff --git a/2019/03/22/使用hexo写博客攻略/index.html b/2019/03/22/使用hexo写博客攻略/index.html
@@ -885,7 +885,7 @@
       <i class="fa fa-area-chart"></i>
     </span>
     
-    <span title="站点总字数">32k</span>
+    <span title="站点总字数">33k</span>
   
 
   
@@ -894,7 +894,7 @@
       <i class="fa fa-coffee"></i>
     </span>
     
-    <span title="站点阅读时长">29 分钟</span>
+    <span title="站点阅读时长">30 分钟</span>
   
 </div>
 

diff --git a/2019/03/23/使用Typora快速编辑Markdown/index.html b/2019/03/23/使用Typora快速编辑Markdown/index.html
@@ -876,7 +876,7 @@
       <i class="fa fa-area-chart"></i>
     </span>
     
-    <span title="站点总字数">32k</span>
+    <span title="站点总字数">33k</span>
   
 
   
@@ -885,7 +885,7 @@
       <i class="fa fa-coffee"></i>
     </span>
     
-    <span title="站点阅读时长">29 分钟</span>
+    <span title="站点阅读时长">30 分钟</span>
   
 </div>
 

diff --git a/2019/03/26/Java变量的分类与自动类型转换/index.html b/2019/03/26/Java变量的分类与自动类型转换/index.html
@@ -913,7 +913,7 @@
       <i class="fa fa-area-chart"></i>
     </span>
     
-    <span title="站点总字数">32k</span>
+    <span title="站点总字数">33k</span>
   
 
   
@@ -922,7 +922,7 @@
       <i class="fa fa-coffee"></i>
     </span>
     
-    <span title="站点阅读时长">29 分钟</span>
+    <span title="站点阅读时长">30 分钟</span>
   
 </div>
 

diff --git a/2019/03/26/Java命名规范/index.html b/2019/03/26/Java命名规范/index.html
@@ -827,7 +827,7 @@
       <i class="fa fa-area-chart"></i>
     </span>
     
-    <span title="站点总字数">32k</span>
+    <span title="站点总字数">33k</span>
   
 
   
@@ -836,7 +836,7 @@
       <i class="fa fa-coffee"></i>
     </span>
     
-    <span title="站点阅读时长">29 分钟</span>
+    <span title="站点阅读时长">30 分钟</span>
   
 </div>
 

diff --git a/2019/03/28/位运算符面试问题/index.html b/2019/03/28/位运算符面试问题/index.html
@@ -863,7 +863,7 @@
       <i class="fa fa-area-chart"></i>
     </span>
     
-    <span title="站点总字数">32k</span>
+    <span title="站点总字数">33k</span>
   
 
   
@@ -872,7 +872,7 @@
       <i class="fa fa-coffee"></i>
     </span>
     
-    <span title="站点阅读时长">29 分钟</span>
+    <span title="站点阅读时长">30 分钟</span>
   
 </div>
 

diff --git a/2019/03/29/数组/index.html b/2019/03/29/数组/index.html
@@ -877,7 +877,7 @@
       <i class="fa fa-area-chart"></i>
     </span>
     
-    <span title="站点总字数">32k</span>
+    <span title="站点总字数">33k</span>
   
 
   
@@ -886,7 +886,7 @@
       <i class="fa fa-coffee"></i>
     </span>
     
-    <span title="站点阅读时长">29 分钟</span>
+    <span title="站点阅读时长">30 分钟</span>
   
 </div>
 

diff --git a/2019/04/01/面向对象与面向过程/index.html b/2019/04/01/面向对象与面向过程/index.html
@@ -852,7 +852,7 @@
       <i class="fa fa-area-chart"></i>
     </span>
     
-    <span title="站点总字数">32k</span>
+    <span title="站点总字数">33k</span>
   
 
   
@@ -861,7 +861,7 @@
       <i class="fa fa-coffee"></i>
     </span>
     
-    <span title="站点阅读时长">29 分钟</span>
+    <span title="站点阅读时长">30 分钟</span>
   
 </div>
 

diff --git a/2019/04/02/static关键字/index.html b/2019/04/02/static关键字/index.html
@@ -849,7 +849,7 @@
       <i class="fa fa-area-chart"></i>
     </span>
     
-    <span title="站点总字数">32k</span>
+    <span title="站点总字数">33k</span>
   
 
   
@@ -858,7 +858,7 @@
       <i class="fa fa-coffee"></i>
     </span>
     
-    <span title="站点阅读时长">29 分钟</span>
+    <span title="站点阅读时长">30 分钟</span>
   
 </div>
 
